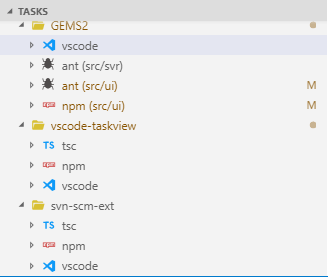
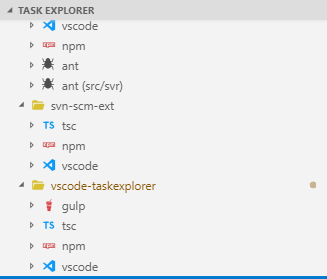
docs(readme): update info and screenshot

diff --git a/README.md b/README.md
@@ -21,7 +21,7 @@
 
 ## Screenshots
 
-|New Sidebar view!!|Calssic Explorer Tray|Support for Ant targets|
+|New Sidebar view!!|Calssic Explorer Tray|Support for Ant/npm/gulp/vscode/tsc tasks|
 |-|-|-|
 |![ss0](https://github.com/spmeesseman/vscode-taskexplorer/blob/master/res/taskview3.png?raw=true)|![ss1](https://github.com/spmeesseman/vscode-taskexplorer/blob/master/res/taskview2.png?raw=true)|![ss2](https://github.com/spmeesseman/vscode-taskexplorer/blob/master/res/taskview.png?raw=true)|
 
@@ -30,8 +30,9 @@
 * Visual Studio Code v1.30 or higher
 * For npm, grunt, and gulp tasks, the 'Auto Detect' vscode setting must be turned 'On' for each respective task provider.
 
-## Features
+## Features by Version
 
+* v1.9 - Support for gulp tasks
 * v1.8 - Support for ant files not named [Bb]uild.xml, ansicon output colorization fixed
 * v1.7 - Two view types!! - Use one or both of either SideBar View and/or Explorer Tray
 * v1.6 - Progress icons for running tasks
@@ -45,14 +46,10 @@
 
 ## Coming Soon
 
-* Open and launch Gulp tasks
-* Open and launch Grunt tasks
-* C/C++ Makefile Task Provider - Open and launch C/C++ Makefiles
-* NSIS Task Provider - Open and launch NSIS installer scripts
-
-## Known Issues
-
-* Ansicon colorization of Ant output not working
+* v1.10 - Open and launch Grunt tasks
+* v1.11 - C/C++ Makefile Task Provider - Open and launch C/C++ Makefiles
+* v1.12 - Batch/Bash file Task Provider - Open and launch batch scripts in Windows and bash scripts in Unix
+* v1.13 - NSIS Task Provider - Open and launch NSIS installer scripts
 
 ## Configuring excludes and ant inicludes with glob patterns
 
